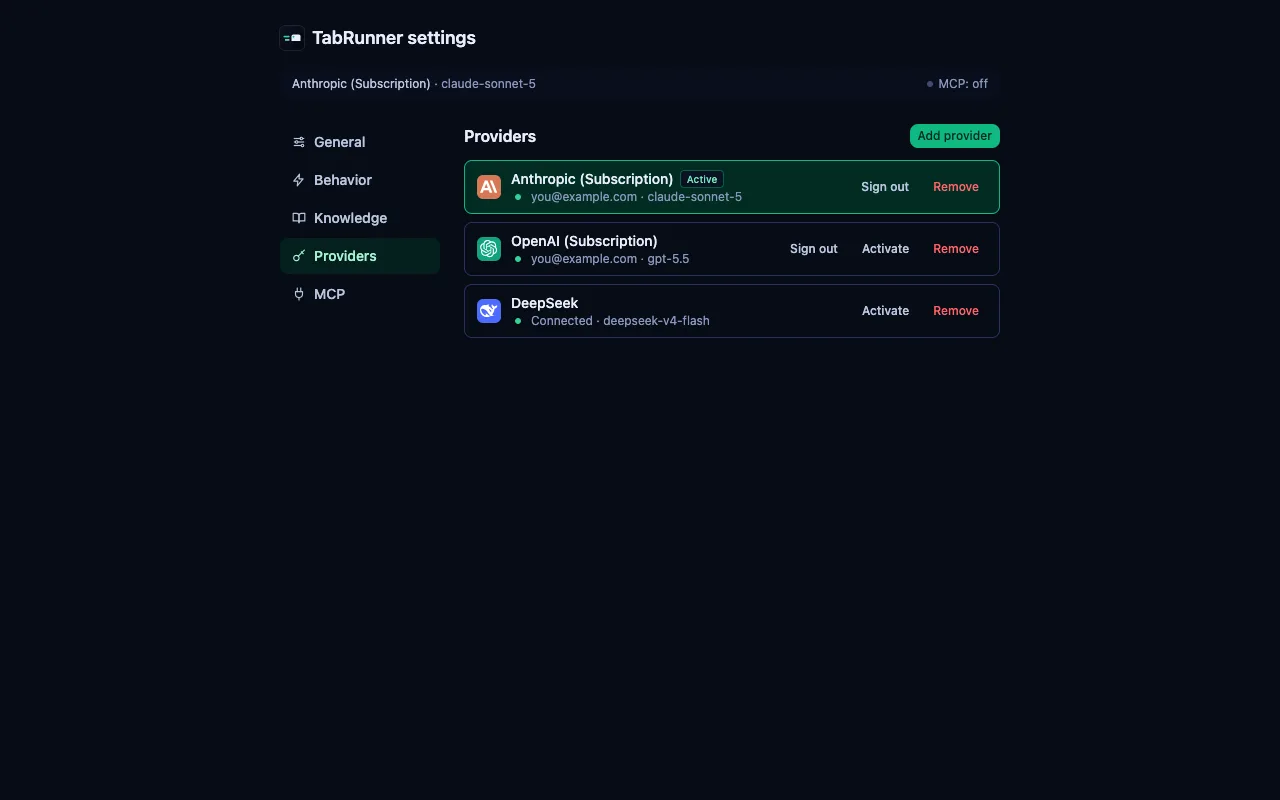
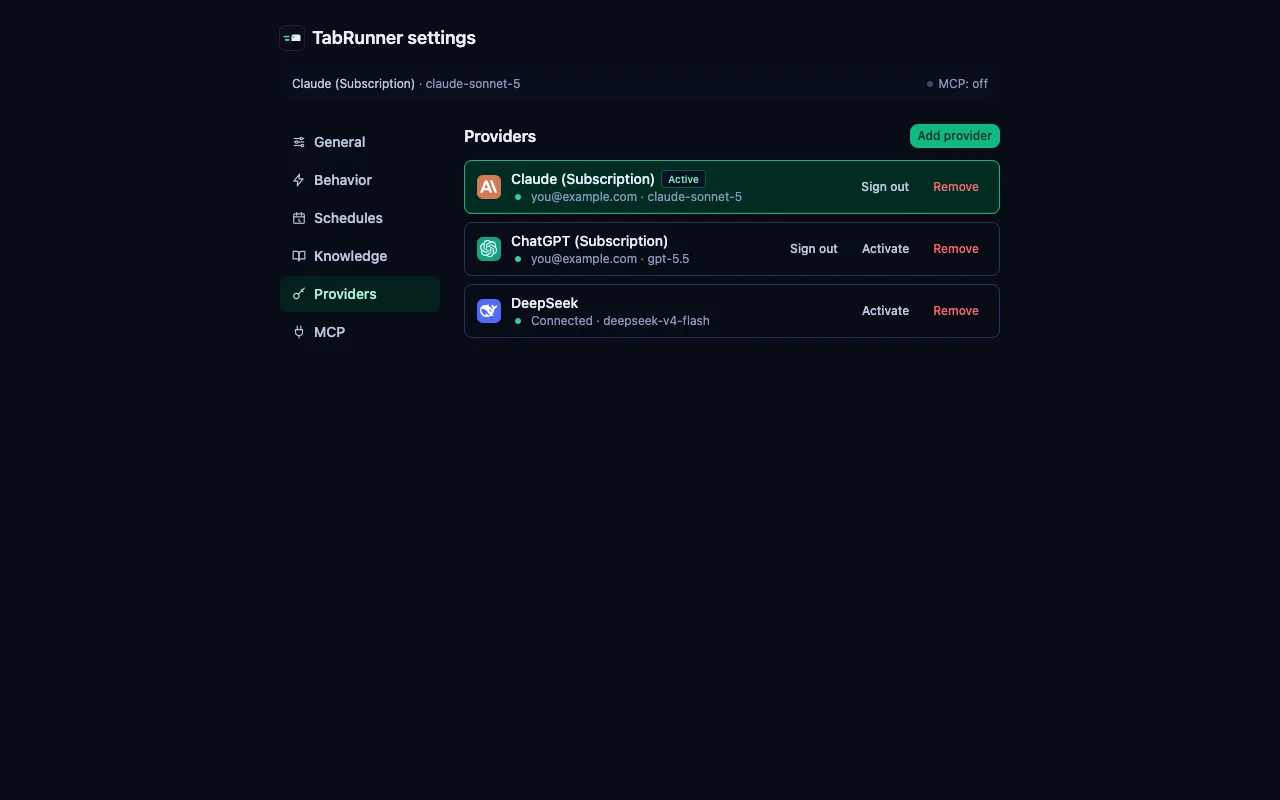
Bridge the two names the providers section now uses
The copy sells a Claude plan; the chip row underneath lists Anthropic. Nothing
connected them, so a reader scanning the chips for what they pay for came up
empty. Saying "Anthropic, OpenAI and Kimi appear twice" spends one clause and
buys both: the bridge, and the arithmetic behind "15 presets across 12
providers" that the section had never explained.

Screenshots come along — 03-providers was still showing the old row labels.

diff --git a/src/i18n/locales/pt-BR.ts b/src/i18n/locales/pt-BR.ts
@@ -68,7 +68,7 @@ export const ptBR: Locale = {
     items: [
       {
         title: "Use o provedor que quiser",
-        body: "São 15 presets para os 12 provedores abaixo: faça login com a assinatura do Claude, do ChatGPT ou da Kimi que você já paga, ou cole uma chave de API — além de qualquer endpoint que fale o formato da OpenAI ou da Anthropic. Sem lock-in e sem servidor no meio do caminho.",
+        body: "São 15 presets para os 12 provedores abaixo — Anthropic, OpenAI e Kimi aparecem duas vezes: faça login com o plano do Claude, do ChatGPT ou da Kimi que você já paga, ou cole uma chave de API. Além de qualquer endpoint que fale o formato da OpenAI ou da Anthropic. Sem lock-in e sem servidor no meio do caminho.",
       },
       {
         title: "Cliques e teclas de verdade",

diff --git a/src/i18n/locales/es-ES.ts b/src/i18n/locales/es-ES.ts
@@ -68,7 +68,7 @@ export const esES: Locale = {
     items: [
       {
         title: "Usa el proveedor que quieras",
-        body: "Son 15 preajustes para los 12 proveedores de abajo: inicia sesión con la suscripción de Claude, ChatGPT o Kimi que ya pagas, o pega una clave de API — además de cualquier endpoint que hable el formato de OpenAI o Anthropic. Sin lock-in y sin ningún servidor de por medio.",
+        body: "Son 15 preajustes para los 12 proveedores de abajo — Anthropic, OpenAI y Kimi aparecen dos veces: inicia sesión con el plan de Claude, ChatGPT o Kimi que ya pagas, o pega una clave de API. Además de cualquier endpoint que hable el formato de OpenAI o Anthropic. Sin lock-in y sin ningún servidor de por medio.",
       },
       {
         title: "Clics y teclas de verdad",

diff --git a/src/i18n/locales/en-US.ts b/src/i18n/locales/en-US.ts
@@ -62,7 +62,7 @@ export const enUS = {
     items: [
       {
         title: "Bring your own provider",
-        body: "15 presets across the 12 providers below: sign in with the Claude, ChatGPT or Kimi subscription you already pay for, or paste an API key — plus any endpoint speaking the OpenAI or Anthropic wire format. No lock-in, no relay.",
+        body: "15 presets across the 12 providers below — Anthropic, OpenAI and Kimi appear twice: sign in with the Claude, ChatGPT or Kimi plan you already pay for, or paste an API key. Plus any endpoint speaking the OpenAI or Anthropic wire format. No lock-in, no relay.",
       },
       {
         title: "Real trusted input",

diff --git a/PRODUCT.md b/PRODUCT.md
@@ -35,7 +35,9 @@ Two claims a neighboring product cannot copy:
    `chrome/src/modules/providers/presets.ts` — the site's chip list is the 12 vendor names.
    **Prose naming the subscriptions names the products instead — Claude, ChatGPT, Kimi** — which
    is what the extension's own subscription rows say, and what people recognize as the thing
-   they pay for. The chip list stays vendors because it counts providers, not rows.
+   they pay for. The chip list stays vendors because it counts providers, not rows, so the copy
+   has to bridge the two vocabularies itself ("Anthropic, OpenAI and Kimi appear twice") — drop
+   that clause and the sentence sells a Claude plan the chips below never mention.
 
 ## Operating Context
 
